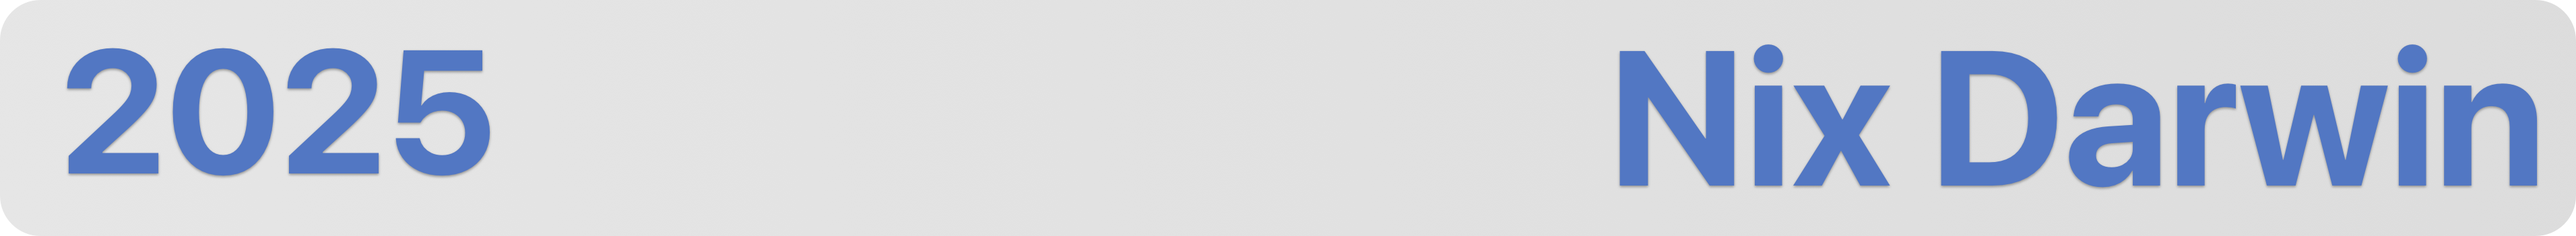
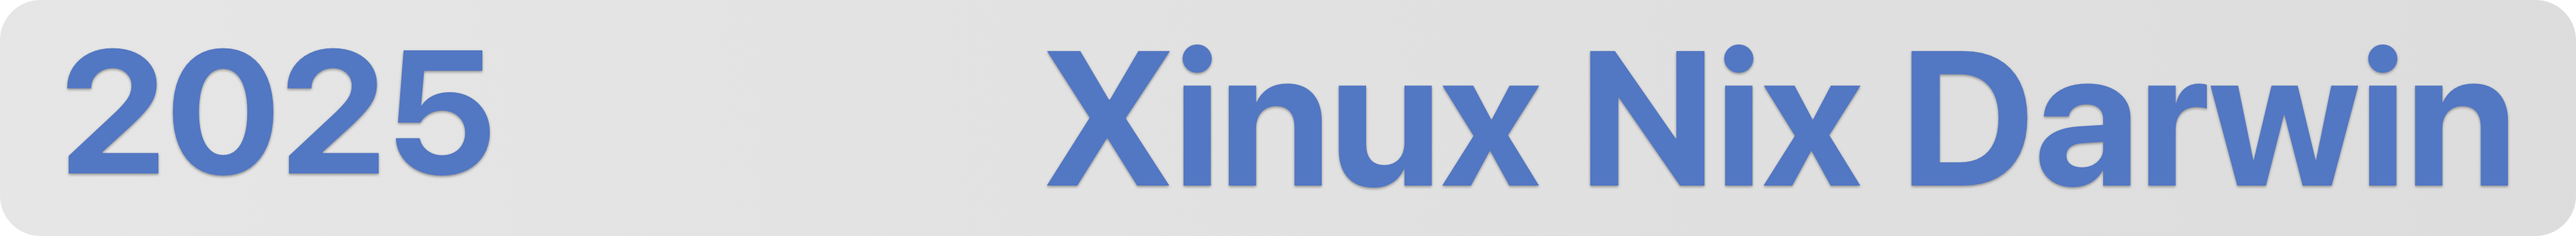
chore: updating to meet xinux requirements

Changed region(s): [[0.4046, 0.1994, 0.9958, 0.7977], [0.9025, 0.1994, 0.9647, 0.3134]]

diff --git a/scripts/build_and_parse_hm_options.rb b/scripts/build_and_parse_hm_options.rb
@@ -41,10 +41,10 @@ elsif ENV['ND_RELEASE'] == "stable"
   ENV['ND_RELEASE'] = config['params']['release_current_stable']
 end
 
-puts "Cleanup and Building Nix Darwin options from #{ENV['ND_RELEASE']}"
+puts "Cleanup and Building Xinux Nix Darwin options from #{ENV['ND_RELEASE']}"
 
 `rm -Rf result`
-`nix build github:LnL7/nix-darwin/${ND_RELEASE}#optionsJSON --no-write-lock-file`
+`nix build github:xinux-org/nix-darwin/${ND_RELEASE}#optionsJSON --no-write-lock-file`
 `rm -f ./data/options-${ND_RELEASE}.json`
 
 in_file = File.read("./result/share/doc/darwin/options.json")
@@ -72,4 +72,4 @@ File.open(filename,"w") do |f|
     f.write(outobj.to_json)
 end
 
-puts "Finished parsing nix darwin options."
+puts "Finished parsing xinux nix darwin options."

diff --git a/README.md b/README.md
@@ -1,9 +1,9 @@
 <p align="center">
-    <img src=".github/assets/header.png" alt="Nix Darwin's {Options}">
+    <img src=".github/assets/header.png" alt="Xinux Nix Darwin's {Options}">
 </p>
 
 <p align="center">
-    <h3 align="center">Nix Darwin options search via web.</h3>
+    <h3 align="center">Xinux Nix Darwin options search via web.</h3>
 </p>
 
 <p align="center">
@@ -13,14 +13,14 @@
 
 ## About
 
-Find [nix-darwin](https://github.com/LnL7/nix-darwin) options quickly using the web interface.
+Find [xinux-nix-darwin](https://github.com/xinux-org/nix-darwin) options quickly using the web interface.
 
 > [!NOTE]
-> This repository is actually adopted version of [mipmip's home-manager-option-search](https://github.com/mipmip/home-manager-option-search). He deserves most of the credits for this work. We just decided to use his efforts for the nix-darwin community.
+> This repository is actually adopted from original version [mipmip's home-manager-option-search](https://github.com/mipmip/home-manager-option-search). He deserves most of the credits for this work. We just decided to use his efforts for the nix-darwin community.
 
 ## Maintainers Notes
 
-After a new NixOS and Nix Darwin release, update the release info in the Hugo
+After a new Nix Darwin release, update the release info in the Hugo
 config:
 
 Edit `config.yaml`, and update the following...
@@ -50,5 +50,5 @@ generating a new website version.
 This project inherited Apache-2.0 license from its original repo - see the [LICENSE](license) file for details.
 
 <p align="center">
-    <img src=".github/assets/footer.png" alt="Nix Darwin's {Options}">
+    <img src=".github/assets/footer.png" alt="Xinux Nix Darwin's {Options}">
 </p>
